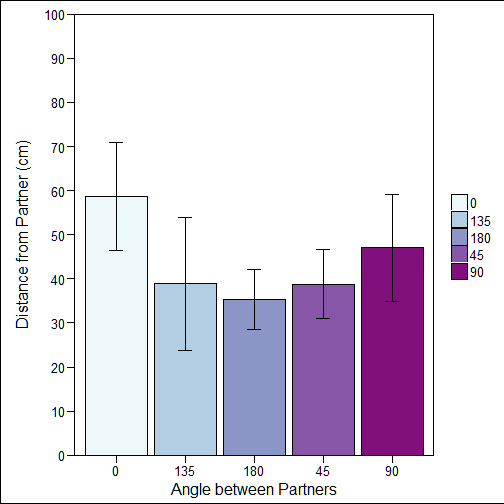
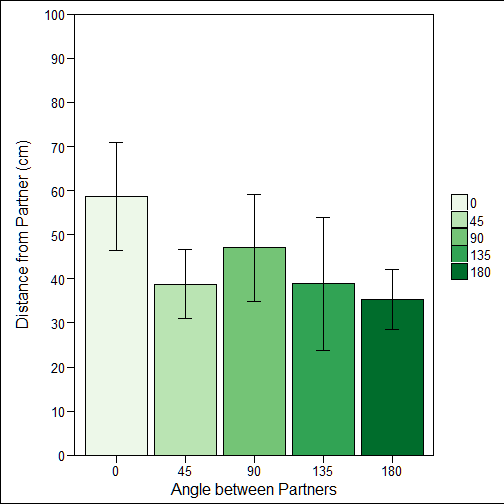
Project Completed
Changes included a proper reordering of the factor levels of the
distDat$Angle variable. Inclusion of a vanilla R script, and a final
knit of the project.
RPub - http://rpubs.com/c5gaspar/P372-A1

Changed region(s): [[0.2976, 0.4762, 0.8631, 0.9524], [0.8929, 0.4167, 0.9821, 0.5655]]

diff --git a/Assignment1.html b/Assignment1.html
@@ -240,7 +240,9 @@ levels(dat$Sex) &lt;- c(&quot;Women&quot;, &quot;Men&quot;, &quot;Mixed&quot;)
 scores &lt;- (dat$Distance-mean(dat$Distance))/sd(dat$Distance) # Calculating z-scores
 distDat &lt;- dat[scores&lt;=3,] # Removal of rows where distance scores is &lt; 3 (4% of data)
 anglDat &lt;- distDat[distDat$Angle %in% seq(0, 180, 45),] # Excluding trials where angle was coded incorrectly.
+
 anglDat$Angle &lt;- as.factor(anglDat$Angle)
+anglDat$Angle &lt;- factor(anglDat$Angle, levels=c(0, 45, 90, 135, 180)) #Reordering
 </code></pre>
 
 <pre><code class="r">## Plotting distributions
@@ -301,8 +303,6 @@ for(i in 1:nrow(anglPlotDat1)){
         anglPlotDat1[i, &quot;Lower&quot;] &lt;- anglPlotDat1[i, &quot;Distance&quot;]-anglError
         anglPlotDat1[i, &quot;Upper&quot;] &lt;- anglPlotDat1[i, &quot;Distance&quot;]+anglError
 }
-
-anglPlotDat1 &lt;- anglPlotDat1[order(levels(anglPlotDat1$Angle)),]
 
 
 # Plotting Distance w.r.t Position
@@ -372,13 +372,13 @@ ggplot(data=anglPlotDat1, aes(x=Angle, y=Distance, fill=Angle))+
                          expand=c(0,0))+
         labs(x=&quot;Angle between Partners&quot;, y=&quot;Distance from Partner (cm)&quot;)+
         theme_base()+
-        scale_fill_brewer(type=&quot;seq&quot;, palette=&quot;BuPu&quot;)+
+        scale_fill_brewer(type=&quot;seq&quot;, palette=&quot;Greens&quot;)+
         theme(plot.margin=unit(c(.5,.25,.25,.5), &quot;cm&quot;),
               axis.title.y=element_text(margin=margin(0,15,0,0)),
               legend.title=element_blank())
 </code></pre>
 
[2 lines of base64/hex data omitted]
 
 <pre><code class="r">## Difference in Distance BY Sex
 
@@ -531,7 +531,6 @@ ezANOVA(data=distDat,
 </code></pre>
 
 <pre><code class="r"># Distance ~ Position*Angle
-
 ezANOVA(data=anglDat,
         dv=Distance,
         wid=Unique,
@@ -580,7 +579,7 @@ lm(Distance ~ as.numeric(Angle), data=anglDat)
 ## 
 ## Coefficients:
 ##       (Intercept)  as.numeric(Angle)  
-##             57.64              -4.52
+##            61.592             -5.411
 </code></pre>
 
 <pre><code class="r">knit2html(&quot;Assignment1.Rmd&quot;, quiet = T)
